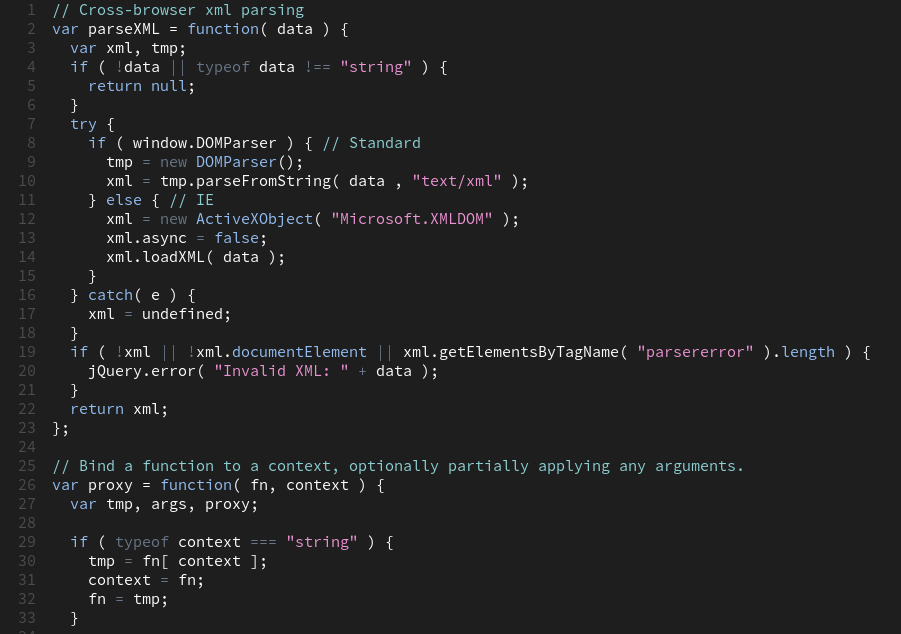
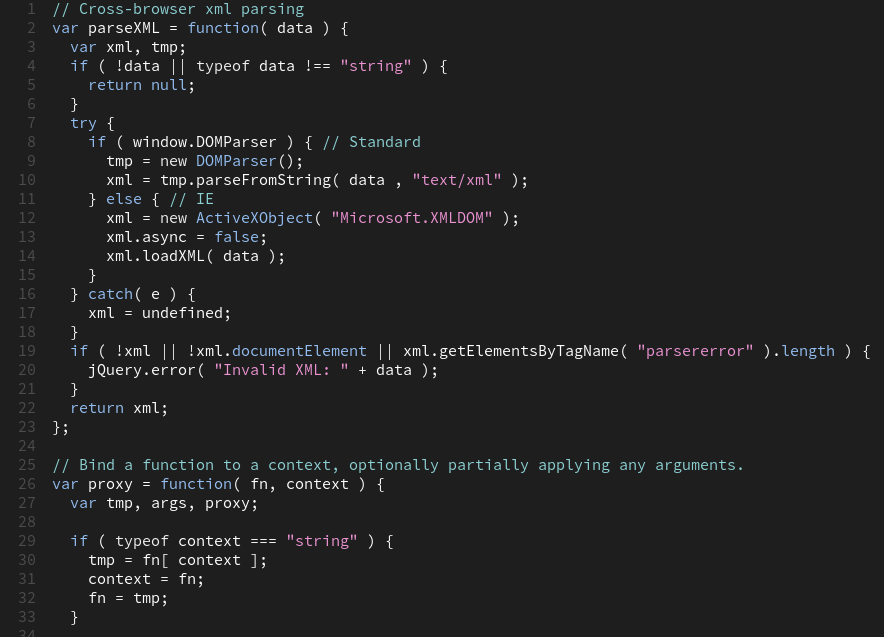
Fixing stale screenshot

diff --git a/README.md b/README.md
@@ -9,7 +9,7 @@ tend to be somewhat evenly distributed across most code. The addition of a
 CMYK like color shift, gives the "cyanic" feel, which is more pleasing to
 the eye, according to undersigned.
 
-![Cyanic Pastels Color Theme Screenshot](http://i.imgur.com/aix6nNx.png)
+![Cyanic Pastels Color Theme Screenshot](http://i.imgur.com/ISlN4iI.png)
 
 ## Links
 * [This project's Github repo](https://github.com/samuell/CyanicPastels)
